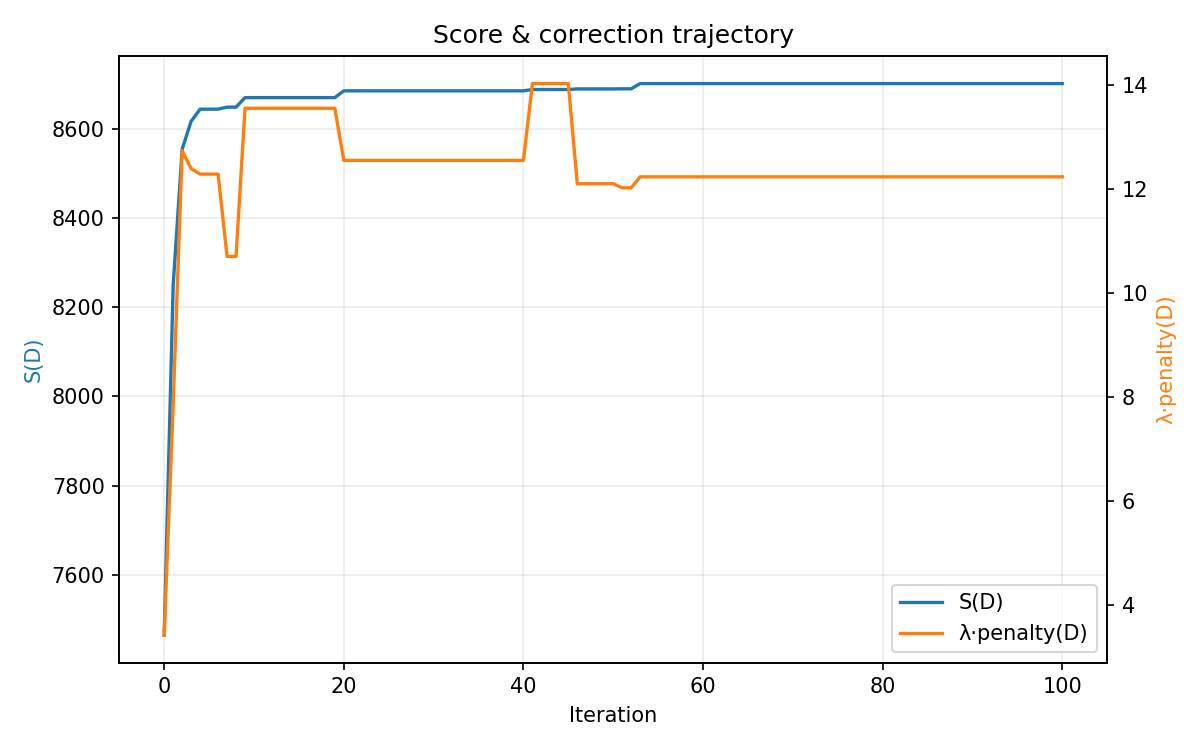
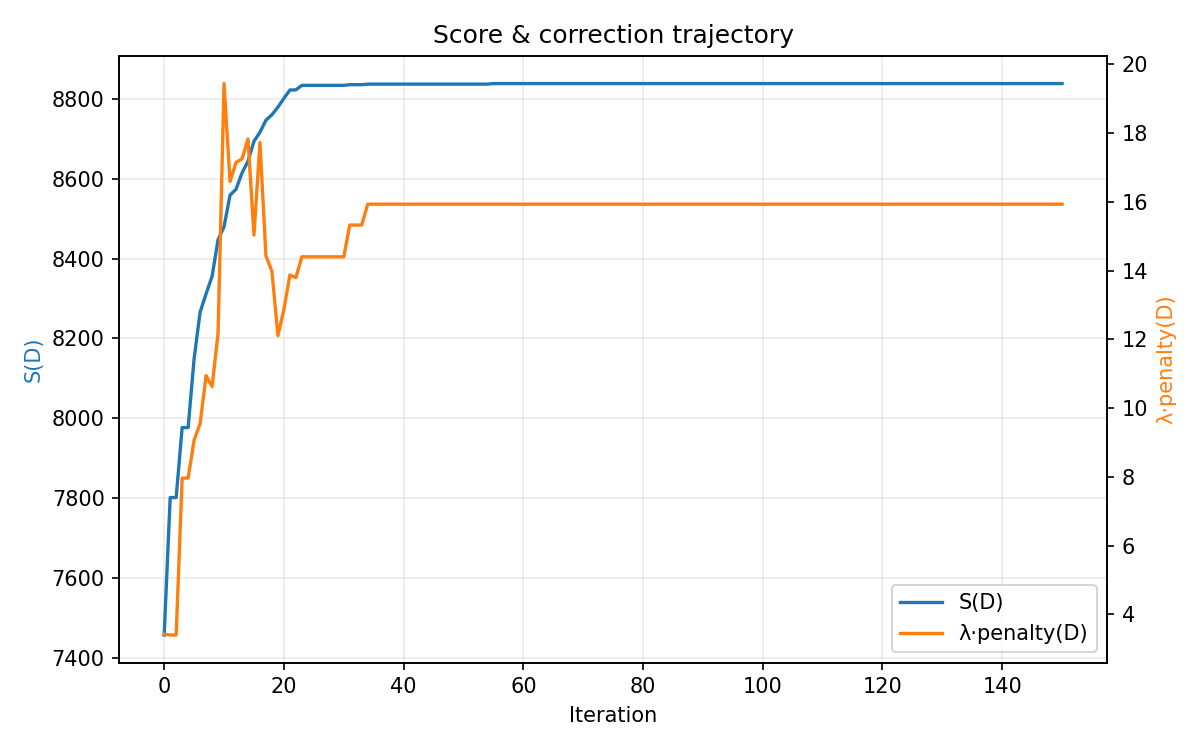
xxx

diff --git a/calculate_my_mask.py b/calculate_my_mask.py
@@ -255,6 +255,15 @@ def select_group_mask(
     dataset_name: str,
     seed: int,
     weight_group: str,
+    two_stage: bool = True,
+    stage_split_ratio: float = 0.40,
+    stage1_repair_mode: str = "sa",
+    stage2_repair_mode: str = "weighted_static",
+    stage_switch_elite_keep_ratio: float = 0.20,
+    stage_switch_big_mut_ratio: float = 0.20,
+    stage_switch_big_mut_times: int = 1,
+    div_static_scores: np.ndarray | None = None,
+    dds_static_scores: np.ndarray | None = None,
 ) -> tuple[np.ndarray, dict[int, int], dict[str, object]]:
     if cut_ratio <= 0 or cut_ratio > 100:
         raise ValueError("cr 必须在 1-100 之间。")
@@ -265,6 +274,28 @@ def select_group_mask(
 
     sr = float(cut_ratio) / 100.0
     sa_scores_np = np.asarray(sa_scores, dtype=np.float32)
+
+    if div_static_scores is not None:
+        div_static_np = np.asarray(div_static_scores, dtype=np.float32)
+        if div_static_np.shape[0] != num_samples:
+            raise ValueError("div_static_scores 与 sa_scores 的样本数不一致。")
+    else:
+        div_static_np = np.zeros(num_samples, dtype=np.float32)
+
+    if dds_static_scores is not None:
+        dds_static_np = np.asarray(dds_static_scores, dtype=np.float32)
+        if dds_static_np.shape[0] != num_samples:
+            raise ValueError("dds_static_scores 与 sa_scores 的样本数不一致。")
+    else:
+        dds_static_np = np.zeros(num_samples, dtype=np.float32)
+
+    weighted_static_has_div = div_static_scores is not None
+    weighted_static_has_dds = dds_static_scores is not None
+
+    if weighted_static_has_div != weighted_static_has_dds:
+        missing_name = "dds_static_scores" if weighted_static_has_div else "div_static_scores"
+        print(f"[Group][weighted_static] Only one static score provided; {missing_name} will be treated as all zeros.")
+
     labels_np = np.asarray(labels, dtype=np.int64)
     labels_t = torch.as_tensor(labels_np, dtype=torch.long, device=device)
     div_features, _ = div_metric._encode_images(div_loader, image_adapter)
@@ -276,37 +307,23 @@ def select_group_mask(
     else:
         target_size = 0
 
-    ga_population_size = 8
-    ga_generations = 100
+    ga_population_size = 16
+    ga_generations = 150
     ga_offspring = ga_population_size
     lambda_sample_M = DEFAULT_M
     lambda_ratio_r = DEFAULT_R
     lambda_eps = DEFAULT_EPS
-    # ====== adaptive schedule block ======
-    level = 1
-    WARMUP = 5
-    STALL_TRIGGER = 3
-    EPS = 1e-8
-
     cr_ratio = cut_ratio / 100.0
 
-    ls_max = 0.06 - 0.03 * cr_ratio
-    ls_min = 0.3 * ls_max
-    ls_step = (ls_max - ls_min) / 3.0
-    ls_levels = [ls_min + level_idx * ls_step for level_idx in range(4)]
+    local_search_ratio_stage1 = 0.05 - 0.03 * cr_ratio
+    local_search_ratio_stage2 = 0.08 - 0.04 * cr_ratio
+    mutation_ratio_stage1 = 0.008 * (1.0 + 3.0 * (1.0 - cr_ratio))
+    mutation_ratio_stage2 = 0.02 * (1.0 + 1.0 * (1.0 - cr_ratio))
+    crossover_sym_ratio_stage1 = 0.7 - 0.05 * (1 - cr_ratio)
+    crossover_sym_ratio_stage2 = 0.85 - 0.15 * (1 - cr_ratio)
 
-    m_max = 2.0 + 3.0 * (1.0 - cr_ratio)
-    mut_max = 0.01 * m_max
-    mut_min = mut_max / 4.0
-    mut_step = (mut_max - mut_min) / 3.0
-    mut_levels = [mut_min + level_idx * mut_step for level_idx in range(4)]
-
-    C_MAX = 0.8
-    c_min = 0.7 - 0.2 * (1 - cr_ratio)
-    c_step = (C_MAX - c_min) / 3.0
-    c_levels = [c_min + level_idx * c_step for level_idx in range(4)]
-
-    stall_counter = 0
+    stage_split_ratio = float(np.clip(stage_split_ratio, 0.0, 1.0))
+    stage1_gens = int(ga_generations * stage_split_ratio)
 
     cached_real_stats: dict[tuple[int, ...], tuple[float, np.ndarray, np.ndarray]] = {}
 
@@ -352,24 +369,24 @@ def select_group_mask(
             mask[indices] = 1
         return mask
 
-    def _pick_top_static(candidate_idx: np.ndarray, k: int) -> np.ndarray:
+    def _pick_top_by_score(candidate_idx: np.ndarray, k: int, score_np: np.ndarray) -> np.ndarray:
         if k <= 0 or candidate_idx.size == 0:
             return np.empty(0, dtype=np.int64)
-        order = np.argsort(-sa_scores_np[candidate_idx])
+        order = np.argsort(-score_np[candidate_idx], kind="mergesort")
         return candidate_idx[order[: min(k, candidate_idx.size)]].astype(np.int64)
 
-    def _repair_size(indices: np.ndarray) -> np.ndarray:
+    def _repair_size(indices: np.ndarray, repair_score_np: np.ndarray) -> np.ndarray:
         unique_idx = np.unique(indices.astype(np.int64))
         if target_size == 0:
             return np.empty(0, dtype=np.int64)
         if unique_idx.size > target_size:
-            return _pick_top_static(unique_idx, target_size)
+            return _pick_top_by_score(unique_idx, target_size, repair_score_np)
         if unique_idx.size < target_size:
             comp = np.setdiff1d(np.arange(num_samples, dtype=np.int64), unique_idx, assume_unique=False)
-            fill = _pick_top_static(comp, target_size - unique_idx.size)
+            fill = _pick_top_by_score(comp, target_size - unique_idx.size, repair_score_np)
             unique_idx = np.concatenate([unique_idx, fill])
         if unique_idx.size > target_size:
-            unique_idx = _pick_top_static(unique_idx, target_size)
+            unique_idx = _pick_top_by_score(unique_idx, target_size, repair_score_np)
         return unique_idx.astype(np.int64)
 
     def _evaluate(indices: np.ndarray) -> dict[str, object]:
@@ -411,7 +428,26 @@ def select_group_mask(
         b = population[int(chosen[1])]
         return a if float(a["fitness"]) >= float(b["fitness"]) else b
 
-    static_topk = _pick_top_static(np.arange(num_samples, dtype=np.int64), target_size)
+    weighted_static_np = (
+        weights["sa"] * sa_scores_np
+        + weights["div"] * div_static_np
+        + weights["dds"] * dds_static_np
+    ).astype(np.float32)
+
+    if np.std(weighted_static_np) <= 1e-12 or np.std(sa_scores_np) <= 1e-12:
+        weighted_static_corr_with_sa = 1.0
+    else:
+        weighted_static_corr_with_sa = float(np.corrcoef(weighted_static_np, sa_scores_np)[0, 1])
+    print(
+        "[Group][weighted_static] "
+        f"sa(mean={float(np.mean(sa_scores_np)):.6f}, std={float(np.std(sa_scores_np)):.6f}) | "
+        f"div(mean={float(np.mean(div_static_np)):.6f}, std={float(np.std(div_static_np)):.6f}) | "
+        f"dds(mean={float(np.mean(dds_static_np)):.6f}, std={float(np.std(dds_static_np)):.6f}) | "
+        f"weighted(mean={float(np.mean(weighted_static_np)):.6f}, std={float(np.std(weighted_static_np)):.6f}) | "
+        f"corr(weighted,sa)={weighted_static_corr_with_sa:.6f}"
+    )
+
+    static_topk = _pick_top_by_score(np.arange(num_samples, dtype=np.int64), target_size, sa_scores_np)
 
     lambda_info = get_or_estimate_lambda(
         cache_path=PROJECT_ROOT / "utils" / "group_lambda.json",
@@ -443,7 +479,8 @@ def select_group_mask(
         random_idx = np.random.choice(num_samples, size=target_size, replace=False).astype(np.int64)
         initial_population_idx.append(np.sort(random_idx))
 
-    population = [_evaluate(_repair_size(idx)) for idx in initial_population_idx]
+    init_repair_score_np = sa_scores_np
+    population = [_evaluate(_repair_size(idx, init_repair_score_np)) for idx in initial_population_idx]
     best_initial = max(population, key=lambda item: float(item["fitness"]))
     score_history = [float(best_initial["raw_score"])]
     correction_history = [float(lambda_val * float(best_initial["penalty"]))]
@@ -455,27 +492,71 @@ def select_group_mask(
         leave=True,
     )
 
-    best_fitness = max(float(item["fitness"]) for item in population)
+    stage_switch_executed = False
+    stage_switch_info: dict[str, object] = {
+        "triggered": False,
+        "times": 0,
+        "k_big": 0,
+        "elite_keep": 0,
+    }
 
     for gen_idx in generation_iter:
-        cur_best = float(population[0]["fitness"])
-        if cur_best > best_fitness + EPS:
-            best_fitness = cur_best
-            stall_counter = 0
+        just_did_big_mutation = False
+        if two_stage:
+            in_stage1 = gen_idx < stage1_gens
+            stage_name = "stage1" if in_stage1 else "stage2"
+            repair_mode = stage1_repair_mode if in_stage1 else stage2_repair_mode
+            repair_score_np = sa_scores_np if in_stage1 else weighted_static_np
+
+            if (
+                stage_switch_big_mut_times > 0
+                and not stage_switch_executed
+                and gen_idx == stage1_gens
+                and stage1_gens < ga_generations
+            ):
+                pop_sorted = sorted(population, key=lambda item: float(item["fitness"]), reverse=True)
+                elite_keep = max(1, int(ga_population_size * stage_switch_elite_keep_ratio))
+                elite_keep = min(elite_keep, ga_population_size)
+                k_big = max(1, int(stage_switch_big_mut_ratio * target_size))
+                k_big = min(k_big, target_size)
+                mutated_population: list[dict[str, object]] = pop_sorted[:elite_keep]
+                for base_item in pop_sorted[elite_keep:]:
+                    base = np.asarray(base_item["indices"], dtype=np.int64)
+                    if base.size == 0:
+                        mutated_population.append(base_item)
+                        continue
+                    cur_k_big = min(k_big, base.size, num_samples - base.size)
+                    if cur_k_big <= 0:
+                        mutated_population.append(base_item)
+                        continue
+                    drop_idx = np.random.choice(base, size=cur_k_big, replace=False).astype(np.int64)
+                    base_after_drop = np.setdiff1d(base, drop_idx, assume_unique=False)
+                    comp_base = np.setdiff1d(np.arange(num_samples, dtype=np.int64), base_after_drop, assume_unique=False)
+                    add_idx = np.random.choice(comp_base, size=cur_k_big, replace=False).astype(np.int64)
+                    new_indices = np.concatenate([base_after_drop, add_idx])
+                    new_indices = _repair_size(new_indices, weighted_static_np)
+                    mutated_population.append(_evaluate(new_indices))
+                population = mutated_population
+                population.sort(key=lambda item: float(item["fitness"]), reverse=True)
+                stage_switch_executed = True
+                just_did_big_mutation = True
+                stage_switch_info = {
+                    "triggered": True,
+                    "times": int(stage_switch_big_mut_times),
+                    "k_big": int(k_big),
+                    "elite_keep": int(elite_keep),
+                }
+
+            mutation_ratio_eff = mutation_ratio_stage1 if in_stage1 else mutation_ratio_stage2
+            local_search_ratio_eff = local_search_ratio_stage1 if in_stage1 else local_search_ratio_stage2
+            crossover_sym_ratio_eff = crossover_sym_ratio_stage1 if in_stage1 else crossover_sym_ratio_stage2
         else:
-            stall_counter += 1
-
-        if gen_idx < WARMUP:
-            level = min(gen_idx + 1, 3)
-        elif stall_counter > 0 and stall_counter % STALL_TRIGGER == 0:
-            if level > 0:
-                level -= 1
-            else:
-                level = 3
-
-        mutation_ratio_eff = mut_levels[level]
-        local_search_ratio_eff = ls_levels[level]
-        crossover_sym_ratio_eff = c_levels[3 - level]
+            stage_name = "single"
+            repair_mode = "sa"
+            repair_score_np = sa_scores_np
+            mutation_ratio_eff = mutation_ratio_stage1
+            local_search_ratio_eff = local_search_ratio_stage1
+            crossover_sym_ratio_eff = crossover_sym_ratio_stage1
 
         k_mut = max(1, int(mutation_ratio_eff * target_size))
         k_ls = max(1, int(local_search_ratio_eff * target_size))
@@ -495,7 +576,7 @@ def select_group_mask(
             if child.size < target_size and sym.size > 0:
                 need_sym = max(0, max_from_sym - child.size)
                 if need_sym > 0:
-                    add_sym = _pick_top_static(sym, need_sym)
+                    add_sym = _pick_top_by_score(sym, need_sym, repair_score_np)
                     child = np.concatenate([child, add_sym])
 
             if child.size < target_size:
@@ -504,10 +585,10 @@ def select_group_mask(
                     np.union1d(parent_a_idx, parent_b_idx),
                     assume_unique=False,
                 )
-                add_comp = _pick_top_static(complement_union, target_size - child.size)
+                add_comp = _pick_top_by_score(complement_union, target_size - child.size, repair_score_np)
                 child = np.concatenate([child, add_comp])
 
-            child = _repair_size(child)
+            child = _repair_size(child, repair_score_np)
 
             child_k_mut = min(k_mut, child.size, num_samples - child.size)
             if child_k_mut > 0:
@@ -516,7 +597,7 @@ def select_group_mask(
                 add_idx = np.random.choice(comp_child, size=child_k_mut, replace=False).astype(np.int64)
                 child = np.setdiff1d(child, drop_idx, assume_unique=False)
                 child = np.concatenate([child, add_idx])
-                child = _repair_size(child)
+                child = _repair_size(child, repair_score_np)
 
             proxy_scores = np.asarray(
                 parent_a["s_ref"] if float(parent_a["fitness"]) >= float(parent_b["fitness"]) else parent_b["s_ref"],
@@ -524,7 +605,7 @@ def select_group_mask(
             )
             child_k_ls = min(k_ls, child.size, num_samples - child.size)
             child = _local_search_step(child, proxy_scores, child_k_ls)
-            child = _repair_size(child)
+            child = _repair_size(child, repair_score_np)
 
             offspring.append(_evaluate(child))
 
@@ -547,6 +628,12 @@ def select_group_mask(
         generation_best = float(generation_best_item["fitness"])
         score_history.append(float(generation_best_item["raw_score"]))
         correction_history.append(float(lambda_val * float(generation_best_item["penalty"])))
+        if gen_idx % 5 == 0:
+            print(
+                f"[GA] gen={gen_idx:03d} stage={stage_name} repair={repair_mode} "
+                f"mut={mutation_ratio_eff:.5f} ls={local_search_ratio_eff:.5f} "
+                f"cross={crossover_sym_ratio_eff:.5f} switch_big_mut={just_did_big_mutation}"
+            )
         generation_iter.set_postfix({"best_S_prime": f"{generation_best:.4f}"})
 
     # ====== GA 结束后的局部搜索收尾（基于真实动态得分） ======
@@ -564,12 +651,12 @@ def select_group_mask(
     REFINE_MAX_STEPS = 10
     REFINE_EPS = 1e-8
 
-    # 参考 GA 最后一个 level 的 local search 档位，设置收尾用步长（避免改动过猛）
-    k_ls_refine = min(
-        max(1, int(ls_levels[level] * target_size)),
-        best_indices.size,
-        max(0, num_samples - best_indices.size),
-    )
+    # 参考 GA 最后阶段 local search 档位，设置收尾用步长（避免改动过猛）
+    if two_stage:
+        refine_ratio = local_search_ratio_stage2 if ga_generations > stage1_gens else local_search_ratio_stage1
+    else:
+        refine_ratio = local_search_ratio_stage1
+    k_ls_refine = min(max(1, int(refine_ratio * target_size)), best_indices.size, max(0, num_samples - best_indices.size))
 
     refine_steps = REFINE_MAX_STEPS
 
@@ -579,7 +666,8 @@ def select_group_mask(
 
         # 在当前最优解的真实动态得分 best_s_ref 上做一次局部搜索
         refined_indices = _local_search_step(best_indices, best_s_ref, k_ls_refine)
-        refined_indices = _repair_size(refined_indices)
+        refine_repair_score_np = weighted_static_np if two_stage else sa_scores_np
+        refined_indices = _repair_size(refined_indices, refine_repair_score_np)
         refined_mask = _indices_to_mask(refined_indices)
 
         refined_S, refined_s_ref, _ = _real_stats_cached(refined_mask)
@@ -625,6 +713,21 @@ def select_group_mask(
         "ga_offspring": int(ga_offspring),
         "lambda": lambda_val,
         "lambda_info": lambda_info,
+        "two_stage": bool(two_stage),
+        "stage1_gens": int(stage1_gens),
+        "stage_split_ratio": float(stage_split_ratio),
+        "stage1_repair_mode": stage1_repair_mode,
+        "stage2_repair_mode": stage2_repair_mode,
+        "mutation_ratio_stage1": float(mutation_ratio_stage1),
+        "local_search_ratio_stage1": float(local_search_ratio_stage1),
+        "crossover_sym_ratio_stage1": float(crossover_sym_ratio_stage1),
+        "mutation_ratio_stage2": float(mutation_ratio_stage2),
+        "local_search_ratio_stage2": float(local_search_ratio_stage2),
+        "crossover_sym_ratio_stage2": float(crossover_sym_ratio_stage2),
+        "stage_switch_big_mutation": stage_switch_info,
+        "weighted_static_has_div": bool(weighted_static_has_div),
+        "weighted_static_has_dds": bool(weighted_static_has_dds),
+        "weighted_static_corr_with_sa": float(weighted_static_corr_with_sa),
     }
 
     return final_mask, selected_by_class, stats
@@ -895,6 +998,8 @@ def main() -> None:
                     dataset_name=dataset_name,
                     seed=seed,
                     weight_group=weight_group,
+                    div_static_scores=div_scores_np,
+                    dds_static_scores=dds_scores_np,
                 )
                 debug_curve = save_score_curve_plot(
                     group_stats.get("score_history", []),
